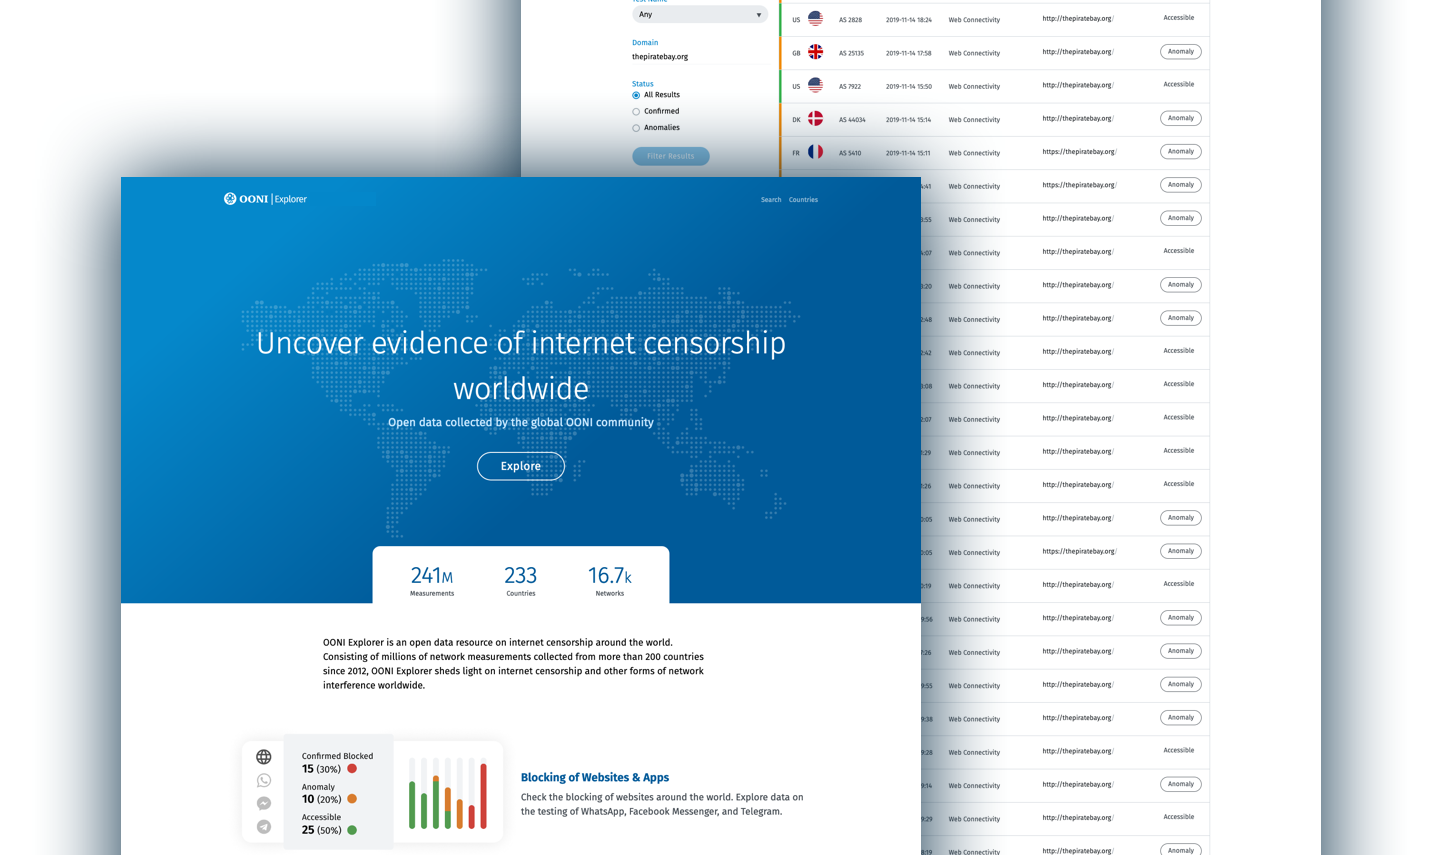
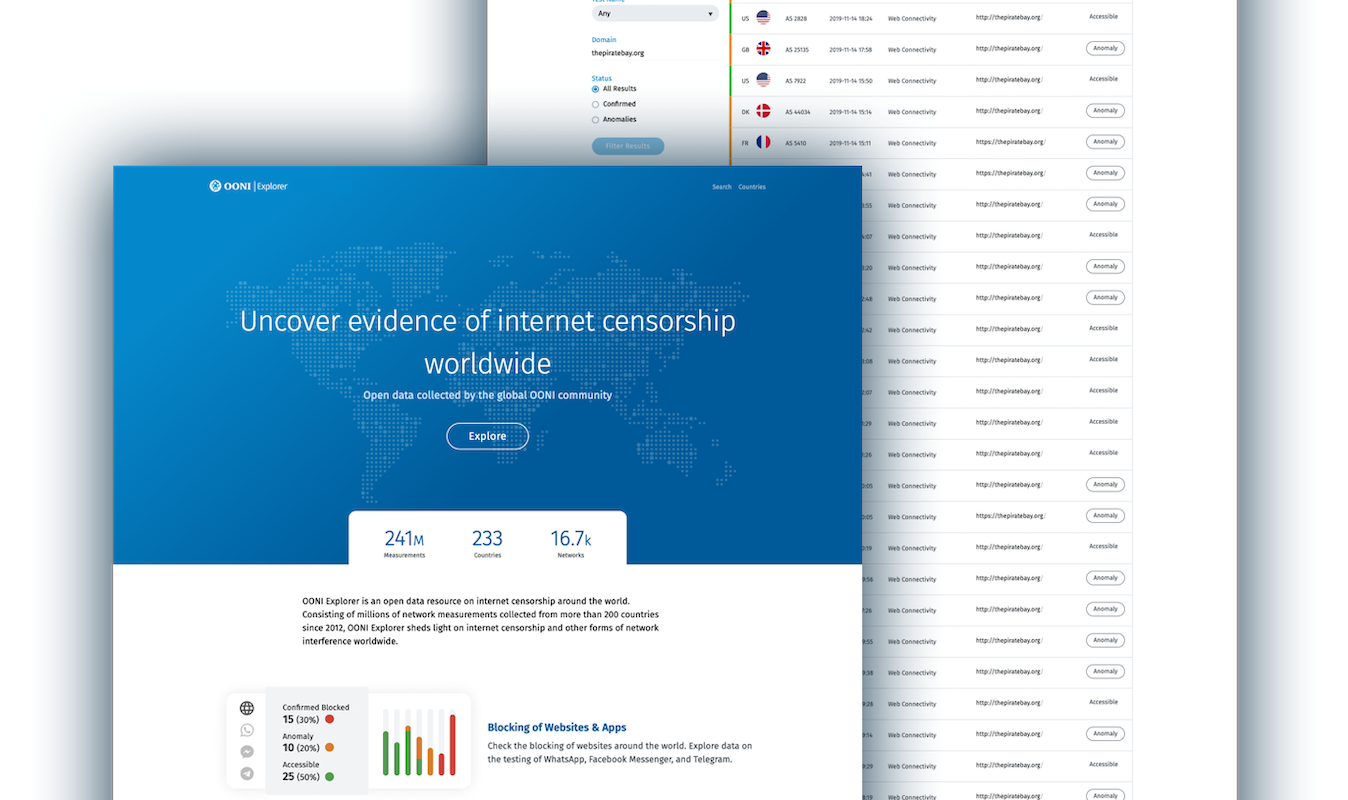
Fix Explorer screenshots

diff --git a/layouts/index.html b/layouts/index.html
@@ -22,13 +22,13 @@
      <div class="container">
       <div class="row">
        <div class="col-2">
-         <img class="ooni-probe-logo" src="/images/homepage/Probe-HorizontalMonochromeInverted.png" srcset="Probe-HorizontalMonochromeInverted@2x.png 2x" />
+         <img class="ooni-probe-logo" src="/images/homepage/Probe-HorizontalMonochromeInverted.png" srcset="/images/homepage/Probe-HorizontalMonochromeInverted@2x.png 2x" />
          <h2>Measure internet censorship</h2>
          <p>Detect the blocking of websites and instant messaging apps. Measure the speed and performance of networks.</p>
          <a class="btn" href="/install">Install OONI Probe</a>
        </div>
        <div class="col-2">
-         <img class="ooni-probe-phone" src="/images/homepage/OONI Probe phone.png" srcset="OONI Probe phone@2x.png 2x" alt="OONI Probe mobile app" />
+         <img class="ooni-probe-phone" src="/images/homepage/OONI Probe phone.png" srcset="/images/homepage/OONI Probe phone@2x.png 2x" alt="OONI Probe mobile app" />
        </div>
        </div>
      </div>
@@ -54,10 +54,10 @@
    <div class="container">
      <div class="row">
        <div class="col-2">
-         <img class="ooni-explorer-browser" src="/images/homepage/explorer-browser.png" srcset="explorer-browser@2x.png 2x" alt="OONI Probe mobile app" />
+         <img class="ooni-explorer-browser" src="/images/ooni-explorer-screenshot.png" srcset="/images/ooni-explorer-screenshot@2x.png 2x" alt="OONI Probe mobile app" />
        </div>
        <div class="col-2">
-         <img class="ooni-explorer-logo" src="/images/homepage/Explorer-HorizontalMonochromeInverted.png" srcset="Explorer-HorizontalMonochromeInverted@2x.png 2x" />
+         <img class="ooni-explorer-logo" src="/images/homepage/Explorer-HorizontalMonochromeInverted.png" srcset="/images/homepage/Explorer-HorizontalMonochromeInverted@2x.png 2x" />
          <h2>Uncover evidence of internet censorship worldwide</h2>
          <p>
            OONI Explorer is an open data resource on internet censorship, containing millions of network measurements collected from more than 200 countries since 2012.

diff --git a/layouts/partials/nav.html b/layouts/partials/nav.html
@@ -4,7 +4,7 @@
   <div class="container" style="display: flex;">
     <div class="col-1">
       <a href="/">
-      <img src="/images/homepage/OONI-HorizontalMonochromeInverted.png" srcset="OONI-HorizontalMonochromeInverted@2x.png 2x" alt="OONI logo" />
+      <img src="/images/homepage/OONI-HorizontalMonochromeInverted.png" srcset="/images/homepage/OONI-HorizontalMonochromeInverted@2x.png 2x" alt="OONI logo" />
       </a>
     </div>
     <div class="col-4 nav-items">
